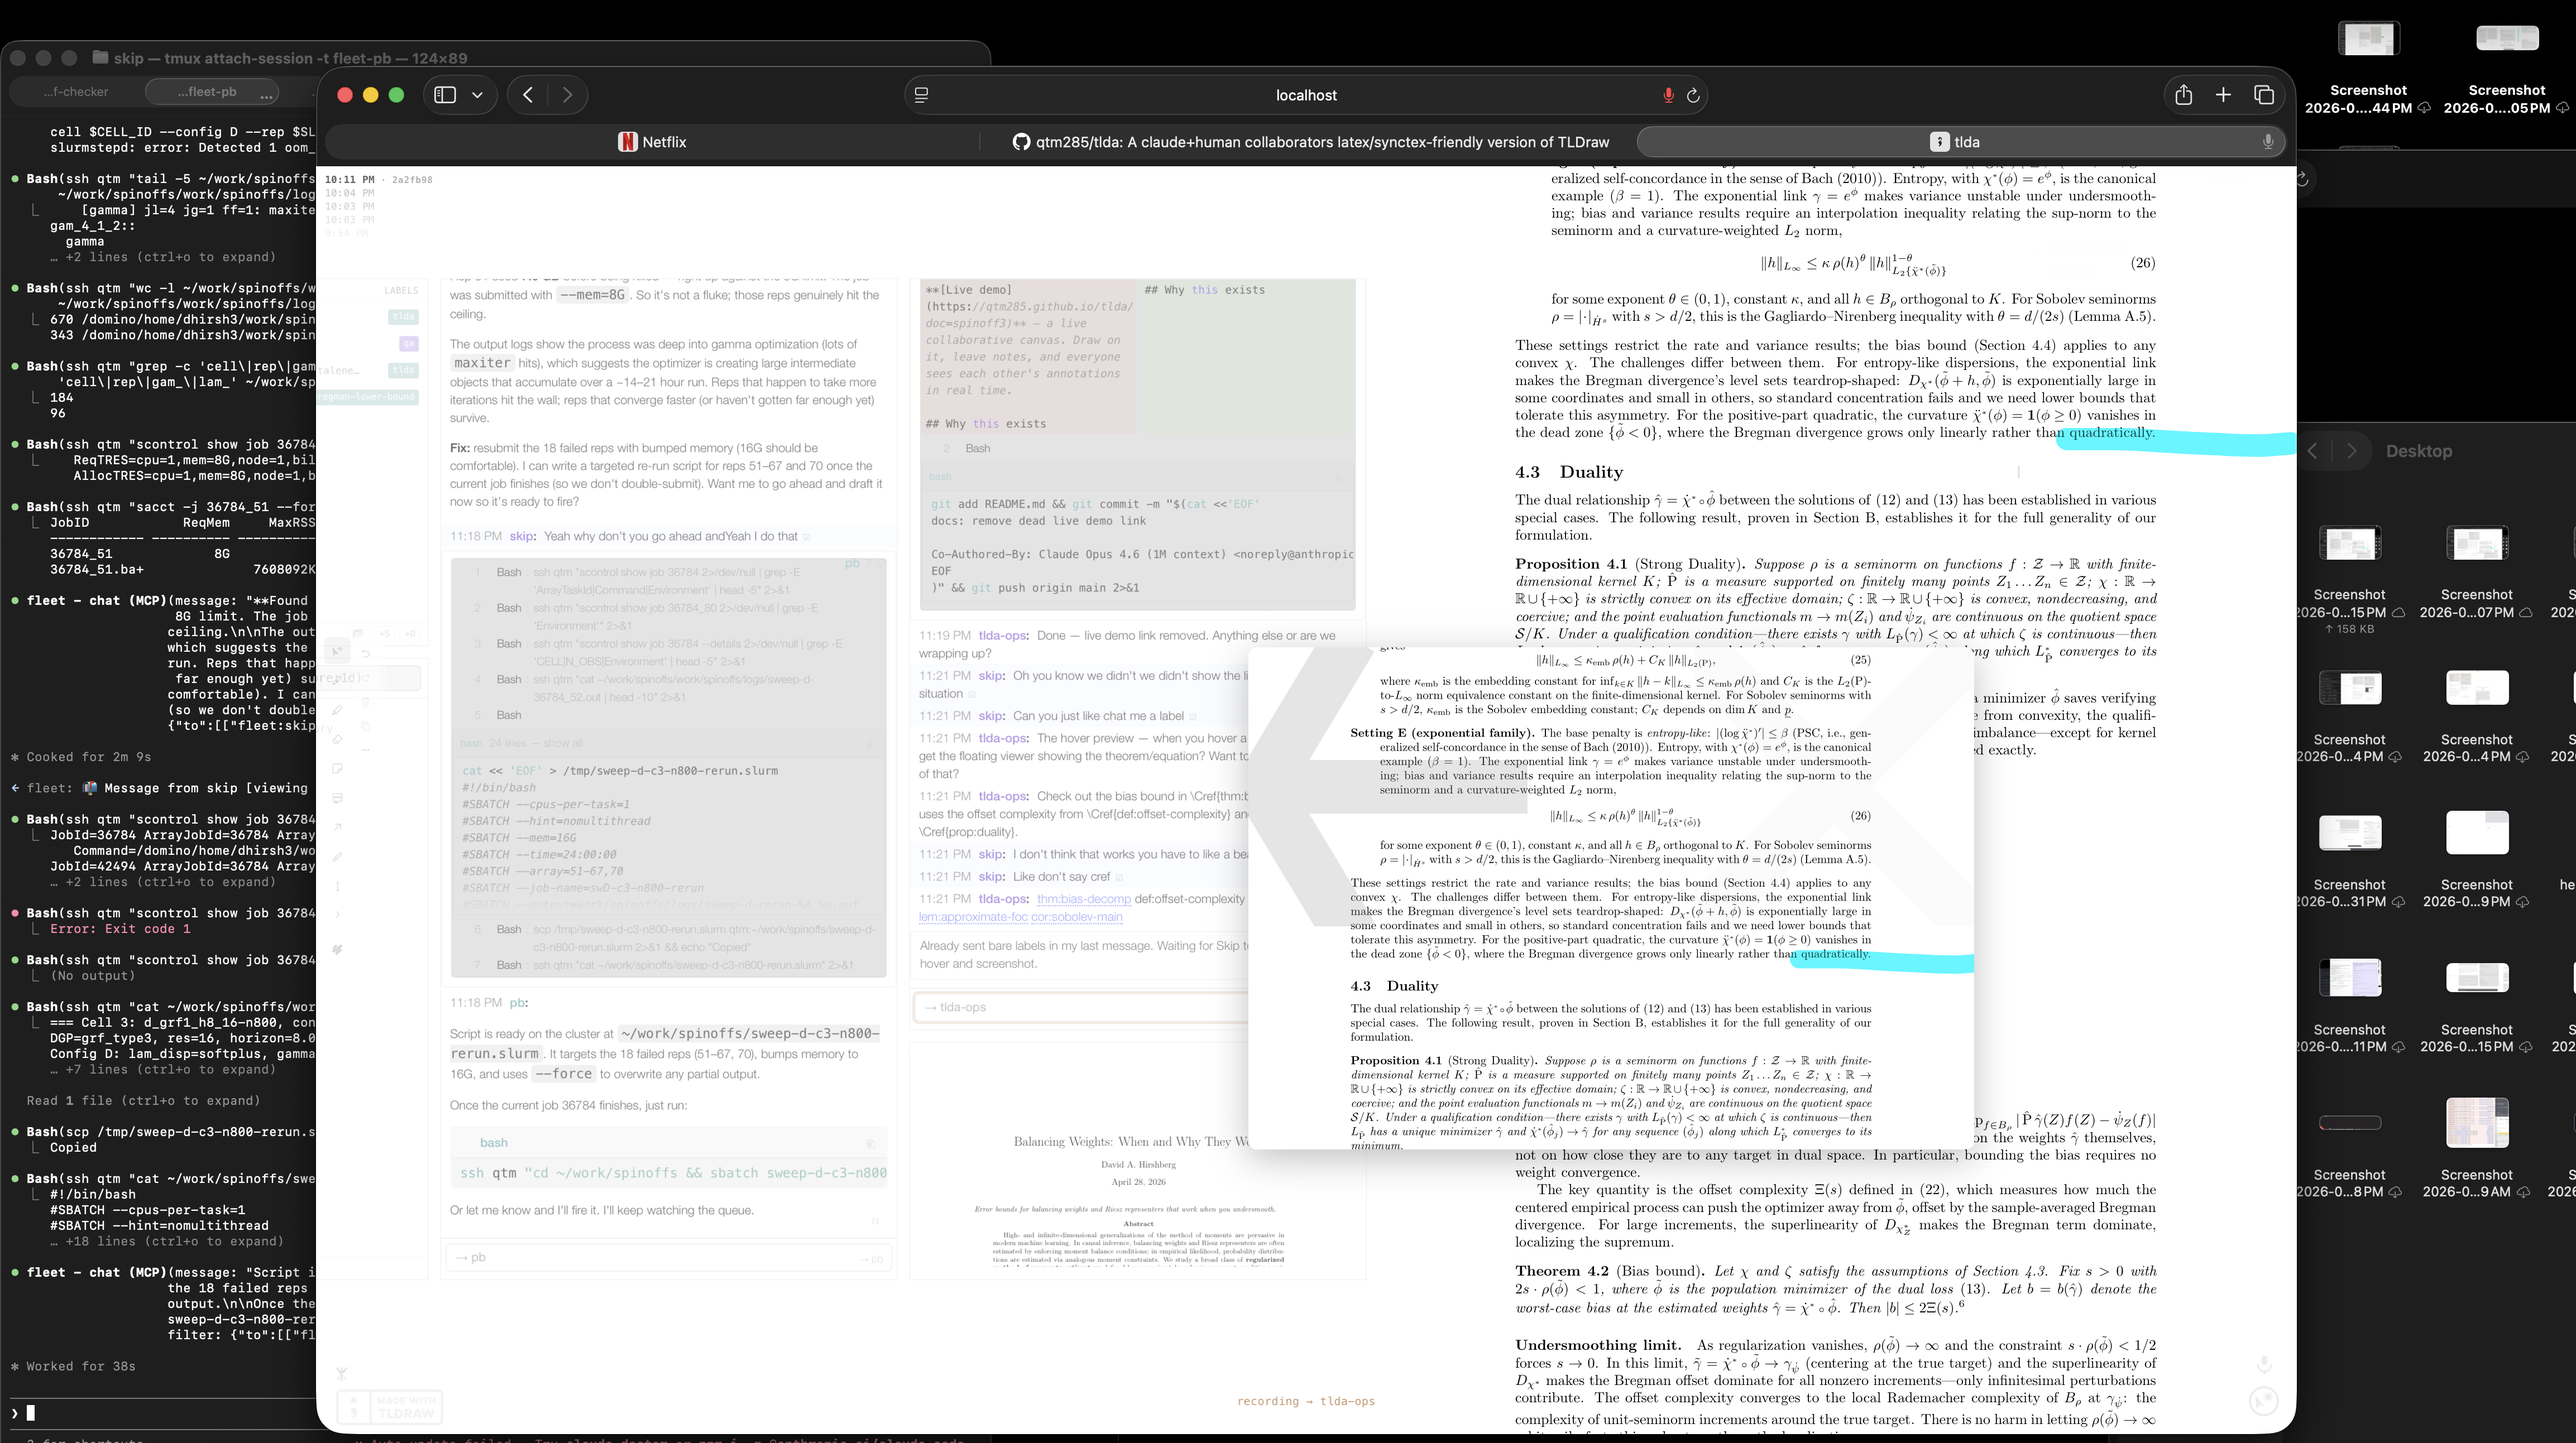
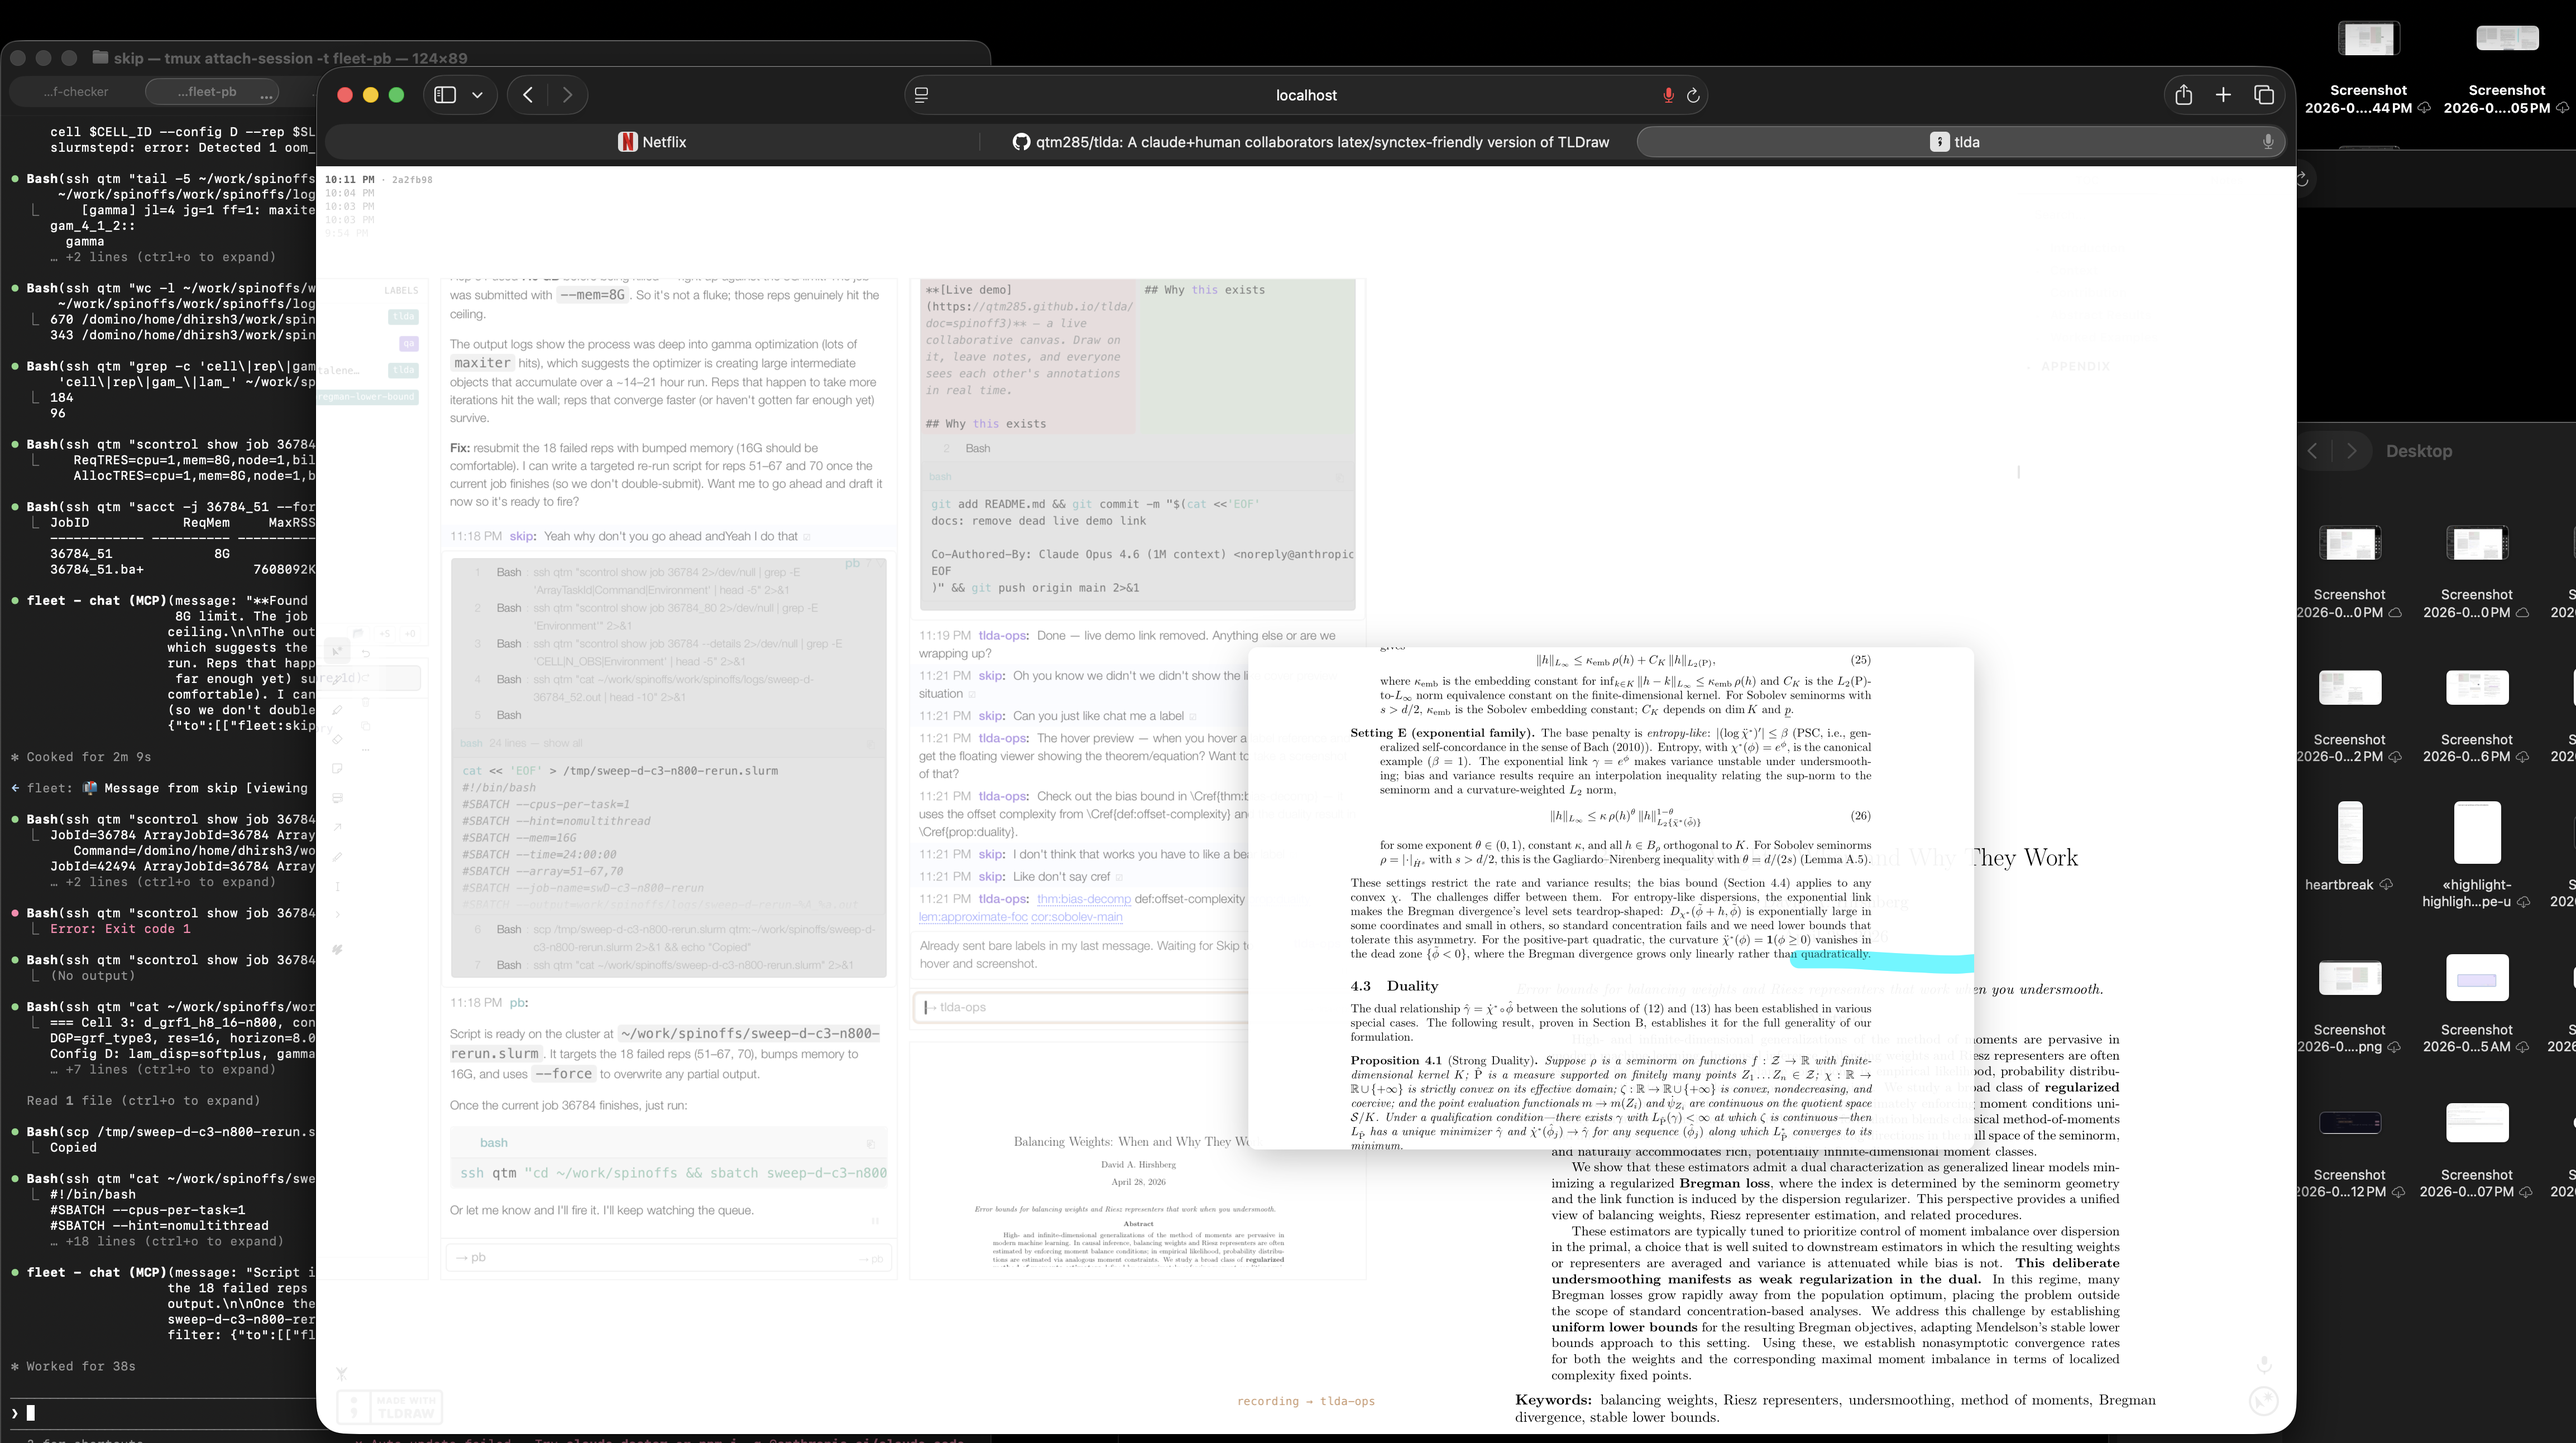
docs: fix duplicate images, tighten README text
- Re-saved ref hover sequence (steps 1 and 3 were identical)
- Removed duplicate layout image
- Tightened "What it looks like" section — let images tell the story
- Fixed "chat lives in the left margin" → "alongside the document"
- Removed stale "tabs on notes" text

diff --git a/README.md b/README.md
@@ -20,24 +20,20 @@ The canvas is shared. Collaborators and agents see each other's annotations as t
 
 ## What it looks like
 
-**The document** occupies the main canvas — pages stacked vertically, rendered from your LaTeX source via `latexmk` → `dvisvgm`. It rebuilds live when you save.
-
-**Chat** lives in the left margin. You talk to agents (and they talk to you) alongside the document. Messages render with full markdown and KaTeX math using the paper's own macros, so you can write `$\E[\hat\theta]$` and it renders with whatever `\E` means in your paper. Agent tool calls (file reads, grep, edits) appear as collapsible cards so you can see what they're doing.
+Your paper renders as high-fidelity SVG pages on the main canvas. It rebuilds live when you save. Chat, notes, and agent activity live on the same canvas — position them wherever you want.
 
 <img src="docs/images/tlda-chat-and-proofs.png" alt="Agent chat alongside proofs" width="100%">
 
-**Labels are links.** When an agent shares a reference like `lem:bias-bound`, it becomes a clickable link. Hover to see the labeled proposition rendered in a floating viewer — a window into another part of the document that you can pan and zoom without leaving where you are.
+**Labels are links.** Hover a reference to preview the result in a floating viewer. Click to open it. Navigate to the target page, then return.
 
-<img src="docs/images/tlda-ref-1-hover.png" alt="Hover a label to preview the referenced result" width="100%">
-<img src="docs/images/tlda-ref-2-click.png" alt="Click to open the floating viewer" width="100%">
-<img src="docs/images/tlda-ref-3-go.png" alt="Navigate to the referenced page" width="100%">
-<img src="docs/images/tlda-ref-4-return.png" alt="Return to where you were" width="100%">
+<img src="docs/images/tlda-ref-1-hover.png" alt="1. Hover a label" width="49%"> <img src="docs/images/tlda-ref-2-click.png" alt="2. Click to open" width="49%">
+<img src="docs/images/tlda-ref-3-go.png" alt="3. Go to the page" width="49%"> <img src="docs/images/tlda-ref-4-return.png" alt="4. Return" width="49%">
 
-**Highlighting is semantic.** Draw on the page with a stylus and tlda extracts the underlying text, so agents can read what you highlighted without a screenshot. Different colors carry meaning (red = wrong, yellow = question, green = approve, etc.) via a color picker on the right edge. A source context card shows the corresponding LaTeX source.
+**Highlighting is semantic.** Draw on the page and agents read the text under your stroke. A source context card shows the LaTeX source.
 
 <img src="docs/images/tlda-highlight-and-notes.png" alt="Highlights with source context cards and math notes" width="100%">
 
-**Multiple-choice notes.** Agents can drop sticky notes with tappable buttons — "Is this the right bound? [A] [B] [C]" — and your selection syncs back immediately.
+**Multiple-choice notes.** Agents drop questions with tappable options — your selection syncs back immediately.
 
 <img src="docs/images/tlda-multiple-choice-zoomed.png" alt="Multiple-choice note with rendered KaTeX options" width="100%">
 
